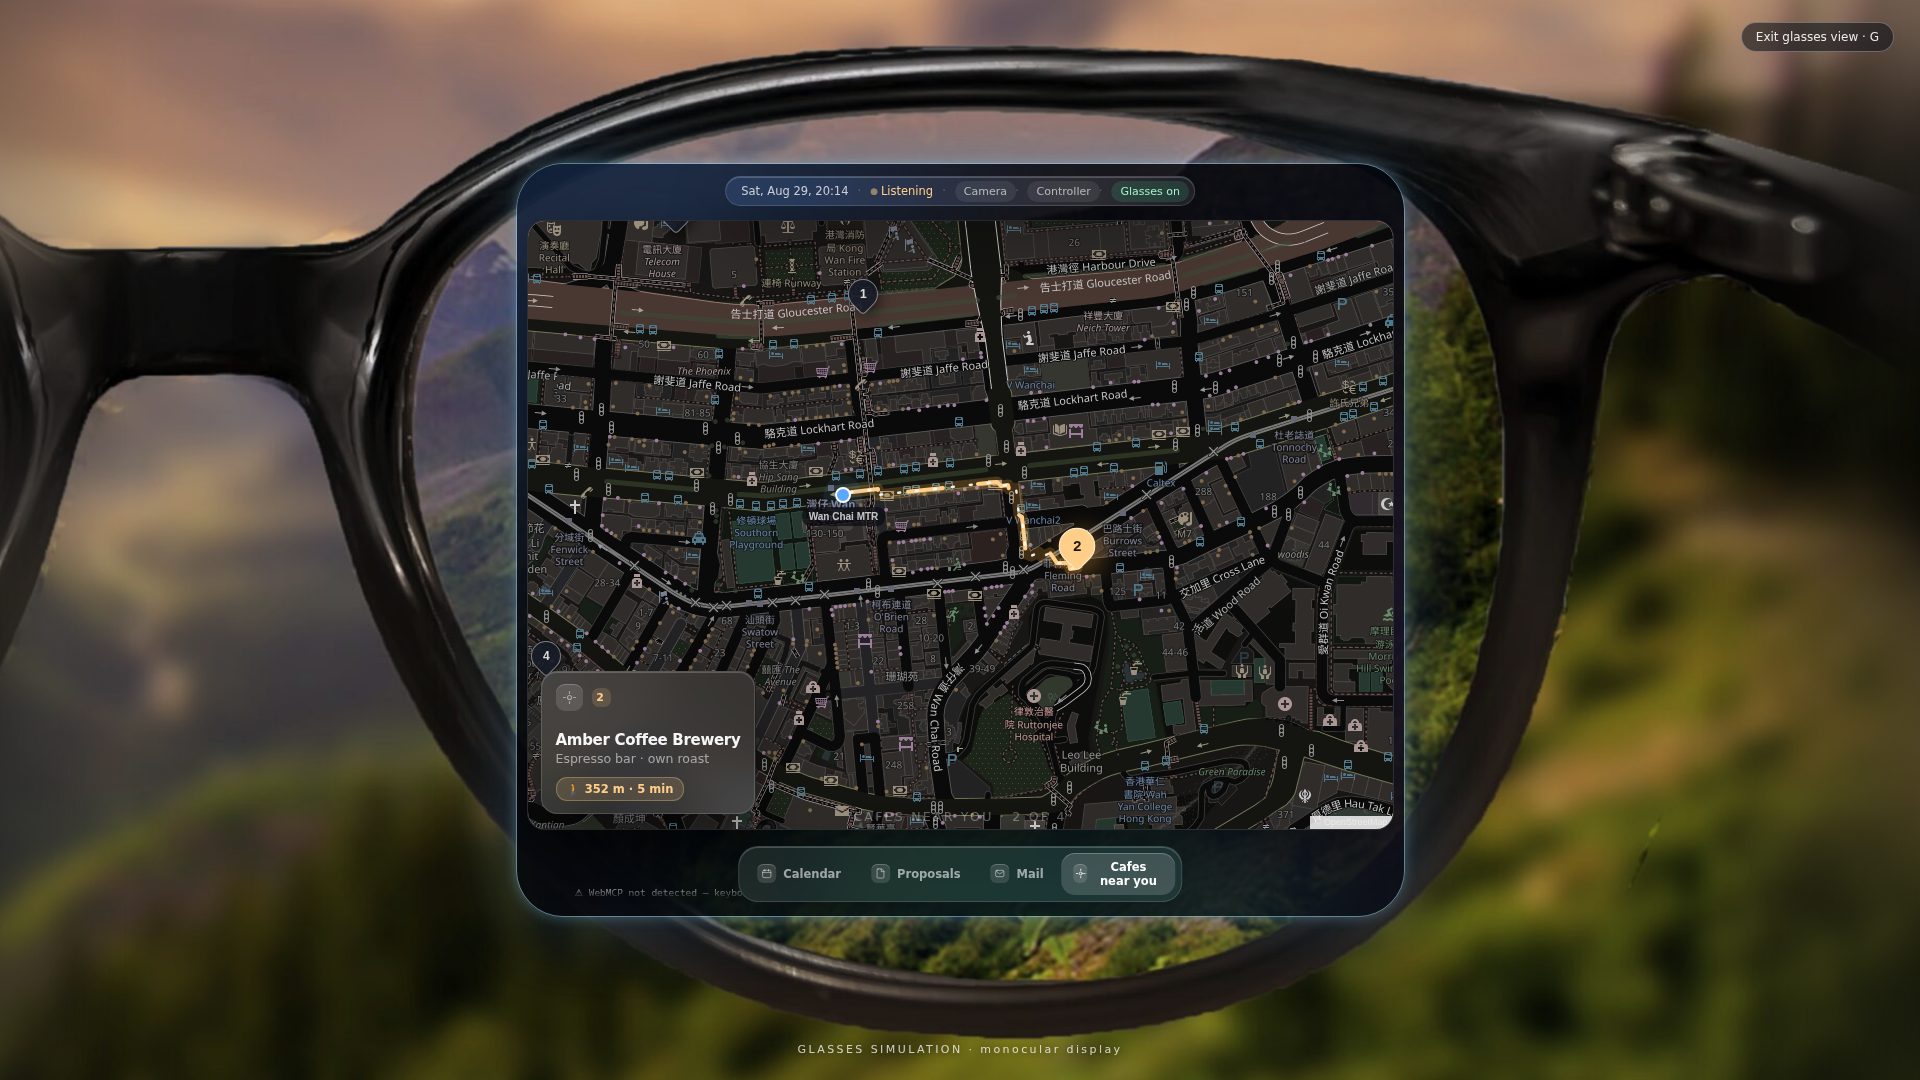
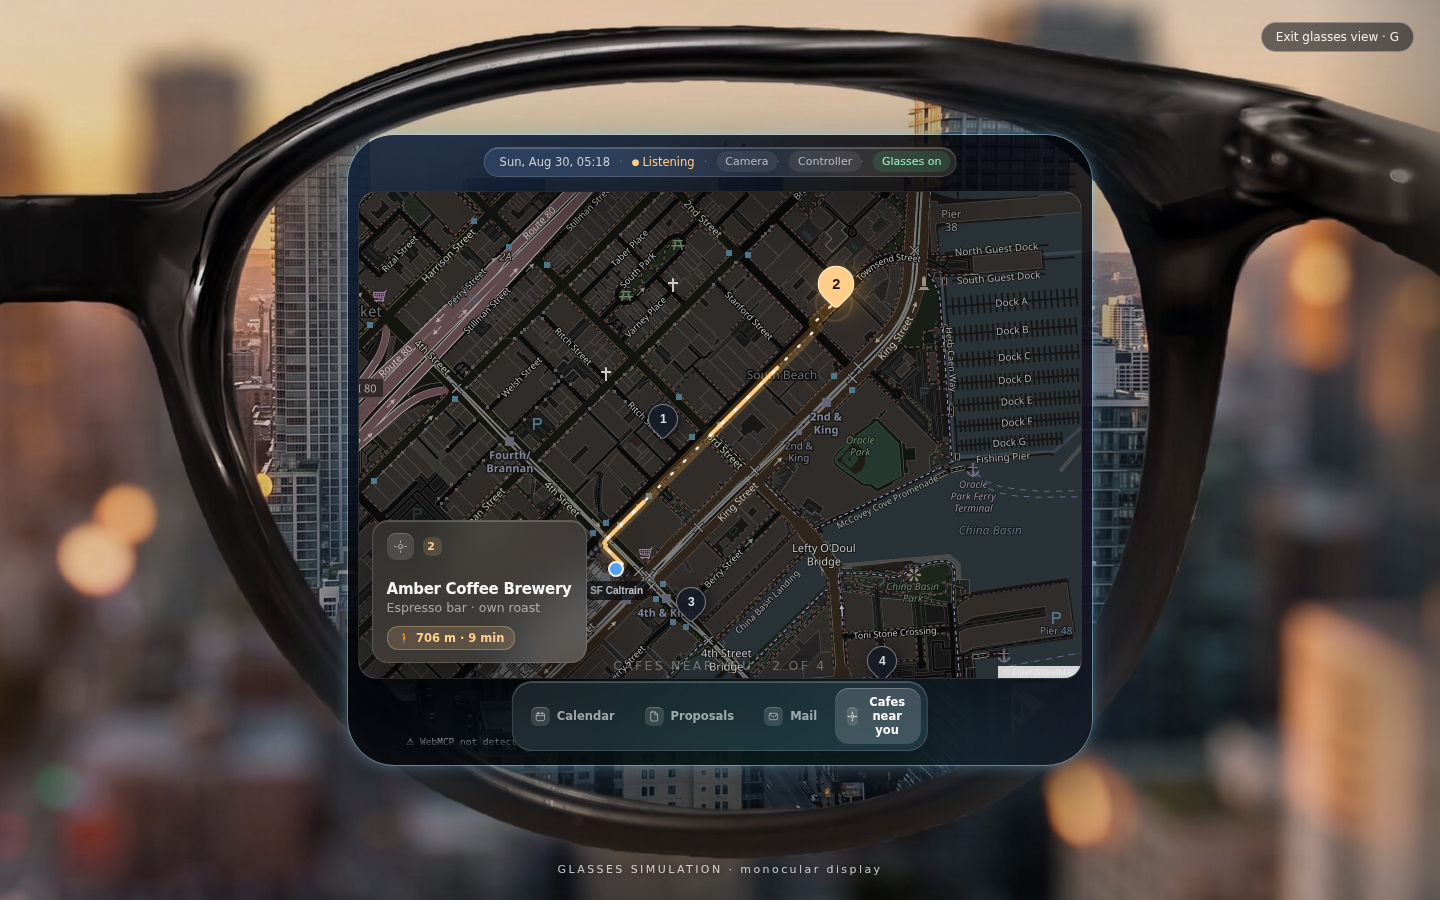
Relocate map demo to San Francisco (SF Caltrain / SoMa)
Judges shouldn't need to know Wan Chai. User position is SF Caltrain
(4th & King); the four fictional cafes sit in South Park / SoMa, the
venue compare demo moves to Mission Bay / SoMa / Dogpatch with USD
prices and a Transit fact, and the map's initial center follows. Route
demo re-verified live: real OSRM walking route, 706 m / 9 min. Map
screenshots recaptured.

diff --git a/src/main.ts b/src/main.ts
@@ -105,8 +105,8 @@ if (demo !== null) {
           template: "aurora",
           eventTitle: "OMP Annual Gathering",
           dateLine: `Fri ${fridays[2].slice(8)}/${fridays[2].slice(5, 7)} · 7:00 PM`,
-          venue: "The Hive · Wan Chai",
-          tagline: "An evening of AI, friends & dim sum",
+          venue: "The Hive · SoMa",
+          tagline: "An evening of AI, demos & friends",
           accent: "#8b5cf6",
           logoText: "OMP",
         },
@@ -120,7 +120,7 @@ if (demo !== null) {
           template: "mono",
           eventTitle: "OMP Annual Gathering",
           dateLine: `Fri ${fridays[2].slice(8)}/${fridays[2].slice(5, 7)} · 7:00 PM`,
-          venue: "The Hive · Wan Chai",
+          venue: "The Hive · SoMa",
           tagline: "You are warmly invited",
           accent: "#c2410c",
           logoText: "OMP",
@@ -174,38 +174,38 @@ if (demo !== null) {
         {
           id: "harbour",
           title: "Harbour Room",
-          subtitle: "Wan Chai · waterfront",
+          subtitle: "Mission Bay · waterfront",
           preview: "Best atmosphere and a clear Friday evening slot.",
           badge: "Best fit",
           facts: [
             { label: "Friday", value: "Sep 18 · 19:00" },
             { label: "Capacity", value: "120" },
-            { label: "Price", value: "HK$18,000" },
-            { label: "MTR", value: "4 min" },
+            { label: "Price", value: "$5,800" },
+            { label: "Transit", value: "4 min" },
           ],
         },
         {
           id: "hive",
           title: "The Hive",
-          subtitle: "Wan Chai · rooftop",
+          subtitle: "SoMa · rooftop",
           preview: "Most flexible package and your logo is already in Drive.",
           facts: [
             { label: "Friday", value: "Sep 25 · 19:30" },
             { label: "Capacity", value: "90" },
-            { label: "Price", value: "HK$14,500" },
-            { label: "MTR", value: "6 min" },
+            { label: "Price", value: "$4,600" },
+            { label: "Transit", value: "6 min" },
           ],
         },
         {
           id: "foundry",
           title: "The Foundry",
-          subtitle: "Quarry Bay · studio",
+          subtitle: "Dogpatch · studio",
           preview: "Largest screen and strongest AV package.",
           facts: [
             { label: "Friday", value: "Oct 2 · 19:00" },
             { label: "Capacity", value: "150" },
-            { label: "Price", value: "HK$21,000" },
-            { label: "MTR", value: "8 min" },
+            { label: "Price", value: "$6,900" },
+            { label: "Transit", value: "8 min" },
           ],
         },
       ],
@@ -214,7 +214,7 @@ if (demo !== null) {
     );
 
   const seedCafes = () => {
-    store.setUserLocation(22.2775, 114.173, "Wan Chai MTR");
+    store.setUserLocation(37.7765, -122.3947, "SF Caltrain");
     store.showStack(
       "cafes",
       "Cafes near you",
@@ -223,11 +223,11 @@ if (demo !== null) {
         {
           id: "halfway",
           title: "Halfway Coffee",
-          subtitle: "Roastery · specialty pour-over",
+          subtitle: "South Park · specialty pour-over",
           preview: "Quiet upstairs seats, good for a laptop hour.",
           badge: "Top pick",
-          lat: 22.2793,
-          lng: 114.1732,
+          lat: 37.7787,
+          lng: -122.3937,
           facts: [
             { label: "Rating", value: "4.6" },
             { label: "Price", value: "$$" },
@@ -239,8 +239,8 @@ if (demo !== null) {
           title: "Amber Coffee Brewery",
           subtitle: "Espresso bar · own roast",
           preview: "Strongest flat white in the neighbourhood.",
-          lat: 22.2768,
-          lng: 114.1755,
+          lat: 37.781,
+          lng: -122.39,
           facts: [
             { label: "Rating", value: "4.5" },
             { label: "Price", value: "$$" },
@@ -251,9 +251,9 @@ if (demo !== null) {
           id: "corner",
           title: "The Corner Cup",
           subtitle: "Neighbourhood cafe",
-          preview: "Cheap, fast, and right by the tram stop.",
-          lat: 22.2801,
-          lng: 114.1712,
+          preview: "Cheap, fast, and right by the Caltrain station.",
+          lat: 37.7756,
+          lng: -122.3931,
           facts: [
             { label: "Rating", value: "4.2" },
             { label: "Price", value: "$" },
@@ -265,8 +265,8 @@ if (demo !== null) {
           title: "Hidden Grounds",
           subtitle: "Courtyard cafe · brunch",
           preview: "Outdoor tables in a quiet courtyard.",
-          lat: 22.2757,
-          lng: 114.1698,
+          lat: 37.7746,
+          lng: -122.389,
           facts: [
             { label: "Rating", value: "4.4" },
             { label: "Price", value: "$$$" },
@@ -311,7 +311,7 @@ if (demo !== null) {
           template: "aurora",
           eventTitle: "OMP Annual Gathering",
           dateLine: `Fri ${fridays[2].slice(8)}/${fridays[2].slice(5, 7)} · 7:00 PM`,
-          venue: "The Hive · Wan Chai",
+          venue: "The Hive · SoMa",
           tagline: "Artwork by your agent — text remains structured",
           accent: "#f2a65a",
           logoText: "OMP",

diff --git a/tests/store.test.ts b/tests/store.test.ts
@@ -196,11 +196,11 @@ describe("Dismissing surfaces", () => {
 describe("Map state", () => {
   test("user location and route summaries reach view state without route geometry", () => {
     const store = new Store();
-    store.showStack("cafes", "Cafes", "generic", [{ id: "a", title: "Halfway", lat: 22.28, lng: 114.17 }]);
-    store.setUserLocation(22.2775, 114.173, "Wan Chai MTR");
-    store.setRoute({ toId: "a", points: [[22.2775, 114.173], [22.28, 114.17]], distanceM: 619, durationMin: 8, streets: ["Lockhart Road"], fallback: false });
+    store.showStack("cafes", "Cafes", "generic", [{ id: "a", title: "Halfway", lat: 37.7787, lng: -122.3937 }]);
+    store.setUserLocation(37.7765, -122.3947, "SF Caltrain");
+    store.setRoute({ toId: "a", points: [[37.7765, -122.3947], [37.7787, -122.3937]], distanceM: 619, durationMin: 8, streets: ["Townsend Street"], fallback: false });
     const view = store.getViewState() as any;
-    expect(view.userLocation.label).toBe("Wan Chai MTR");
+    expect(view.userLocation.label).toBe("SF Caltrain");
     expect(view.route).toEqual({ to: "a", distanceM: 619, durationMin: 8, fallback: false });
     expect(JSON.stringify(view)).not.toContain("points");
   });
@@ -208,13 +208,13 @@ describe("Map state", () => {
   test("re-rendering a stack clears a stale route; focusItem moves focus by id", () => {
     const store = new Store();
     store.showStack("cafes", "Cafes", "generic", [
-      { id: "a", title: "Halfway", lat: 22.28, lng: 114.17 },
-      { id: "b", title: "Amber", lat: 22.277, lng: 114.176 },
+      { id: "a", title: "Halfway", lat: 37.7787, lng: -122.3937 },
+      { id: "b", title: "Amber", lat: 37.781, lng: -122.39 },
     ]);
     store.setRoute({ toId: "a", points: [], distanceM: 1, durationMin: 1, streets: [], fallback: true });
     expect(store.focusItem("b")).toBeTrue();
     expect(store.activeStack()?.focusIndex).toBe(1);
-    store.showStack("cafes", "Cafes", "generic", [{ id: "a", title: "Halfway", lat: 22.28, lng: 114.17 }]);
+    store.showStack("cafes", "Cafes", "generic", [{ id: "a", title: "Halfway", lat: 37.7787, lng: -122.3937 }]);
     expect(store.state.route).toBeNull();
   });
 });

diff --git a/src/tools.ts b/src/tools.ts
@@ -670,13 +670,13 @@ export function wireTools(
   const setLocationTool: ToolDef = {
     name: "map_set_location",
     description:
-      "Set the user's position — the map's blue you-are-here dot. The user TELLS you where they are (real or simulated, e.g. 'assume I'm at Wan Chai MTR'); the page never reads device GPS. Distances to map pins are computed from this point.",
+      "Set the user's position — the map's blue you-are-here dot. The user TELLS you where they are (real or simulated, e.g. 'assume I'm at SF Caltrain'); the page never reads device GPS. Distances to map pins are computed from this point.",
     inputSchema: {
       type: "object",
       properties: {
         lat: { type: "number" },
         lng: { type: "number" },
-        label: { type: "string", description: "Short place name shown next to the dot, e.g. 'Wan Chai MTR'." },
+        label: { type: "string", description: "Short place name shown next to the dot, e.g. 'SF Caltrain'." },
       },
       required: ["lat", "lng"],
     },

diff --git a/tests/tools.test.ts b/tests/tools.test.ts
@@ -133,8 +133,8 @@ describe("map tools", () => {
       title: "Cafes near you",
       purpose: "choose",
       items: [
-        { id: "a", title: "Halfway Coffee", lat: 22.2793, lng: 114.1732 },
-        { id: "b", title: "Amber", lat: 22.2768, lng: 114.1755 },
+        { id: "a", title: "Halfway Coffee", lat: 37.7787, lng: -122.3937 },
+        { id: "b", title: "Amber", lat: 37.781, lng: -122.39 },
       ],
     });
     expect(receipt.receipt.renderedAs).toBe("map-pins");

diff --git a/src/views/mapview.ts b/src/views/mapview.ts
@@ -40,7 +40,7 @@ function ensureMap(): L.Map {
   pinLayer.addTo(map);
   youLayer.addTo(map);
   routeLayer.addTo(map);
-  map.setView([22.28, 114.17], 14);
+  map.setView([37.7765, -122.3947], 14);
   return map;
 }
 

diff --git a/README.md b/README.md
@@ -19,7 +19,7 @@ Your agent (ChatGPT in its in-app browser, or any WebMCP-capable agent) pulls yo
 1. Open the live URL in **ChatGPT desktop's in-app browser** (WebMCP works out of the box) or **Chrome 149+** with `chrome://flags/#enable-webmcp-testing` enabled.
 2. Ask the agent things like:
    - *"Show my latest emails on the surface"* (uses your connectors), or
-   - *"Find three venues for an annual dinner and compare them"*, then *"I'm at Wan Chai MTR — find a cafe nearby"* → *"take me to the second one"* (the page draws and animates the real walking route, and hands the agent the distance and street names to speak).
+   - *"Find three venues for an annual dinner and compare them"*, then *"I'm at SF Caltrain — find a cafe nearby"* → *"take me to the second one"* (the page draws and animates the real walking route, and hands the agent the distance and street names to speak).
 3. No camera or ring needed: **← → arrow keys mirror the palm swipe 1:1**, ↓ enters the dock (D-pad style), **G** toggles the smart-glasses simulation.
 4. No agent handy? Seeded demo states work in any browser:
    `?demo=mail | calendar | month | reader | compare | slots | options | people | cafes | route` — and add `&glasses=1` for the lens view.

diff --git a/SPEC.md b/SPEC.md
@@ -49,10 +49,10 @@ Every item has a `title` and may carry `subtitle`, `summary`, `content`, `imageU
 {
   "id": "harbour-room",
   "title": "Harbour Room",
-  "subtitle": "Wan Chai",
+  "subtitle": "Mission Bay",
   "summary": "Best atmosphere",
   "facts": [
-    { "label": "Price", "value": "HK$18,000" },
+    { "label": "Price", "value": "$5,800" },
     { "label": "Capacity", "value": 120 }
   ]
 }
